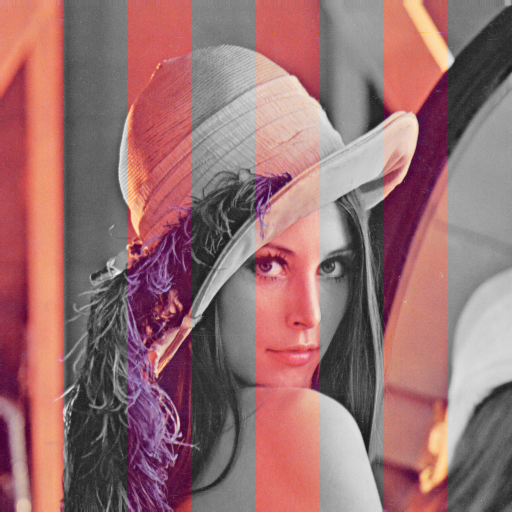
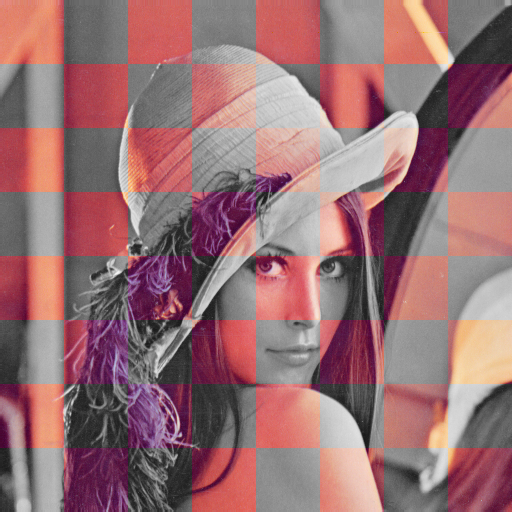
Changed behavior of windowed

diff --git a/src/compose.py b/src/compose.py
@@ -140,10 +140,11 @@ def multiple_windowed(fname, images, shifts=(64,64)):
     
     index = 0
     for (y_min, y_max) in zip(range(0,resolution[0]+1,shifts[0]), range(shifts[0],resolution[0]+1,shifts[0])):
-         for (x_min, x_max) in zip(range(0,resolution[1]+1,shifts[1]), range(shifts[1],resolution[1]+1,shifts[1])):
+        for (x_min, x_max) in zip(range(0,resolution[1]+1,shifts[1]), range(shifts[1],resolution[1]+1,shifts[1])):
             mask = construct_window_mask(resolution, y_min, y_max, x_min, x_max)
             masked_images[index].add_mask(mask=mask)
             index = (index + 1) % nb_images
+        index = (index + 1) % nb_images
     
     return compose(masked_images=masked_images, fname=fname)
     
